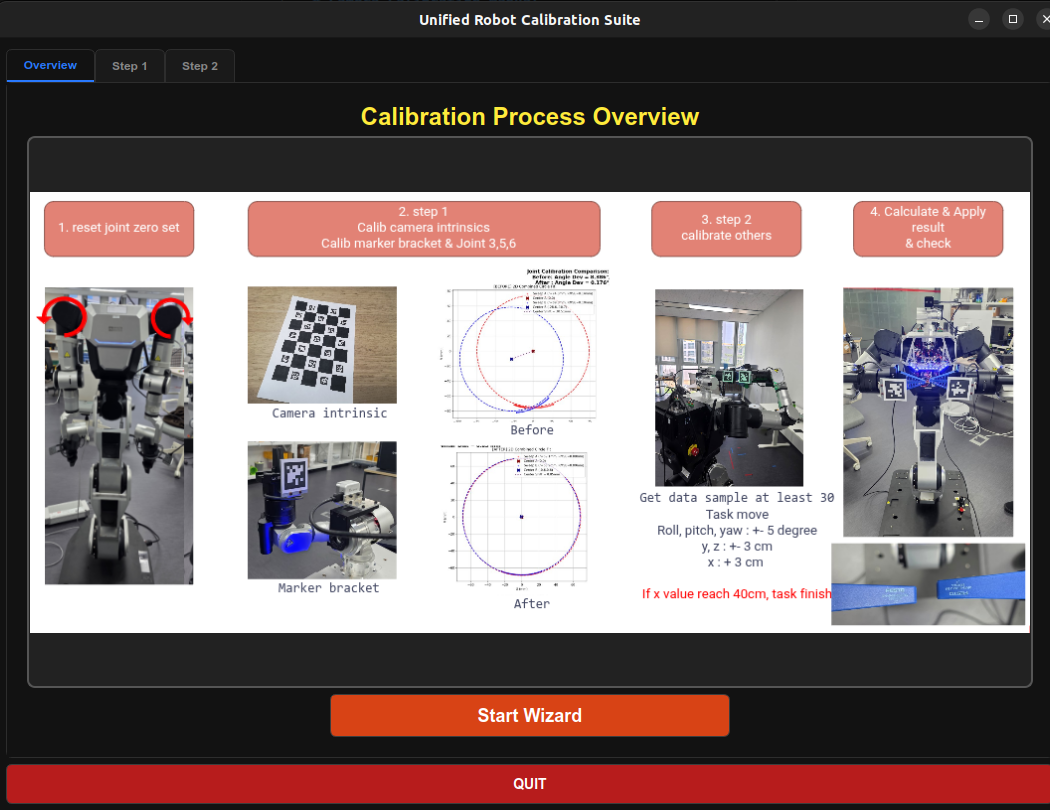
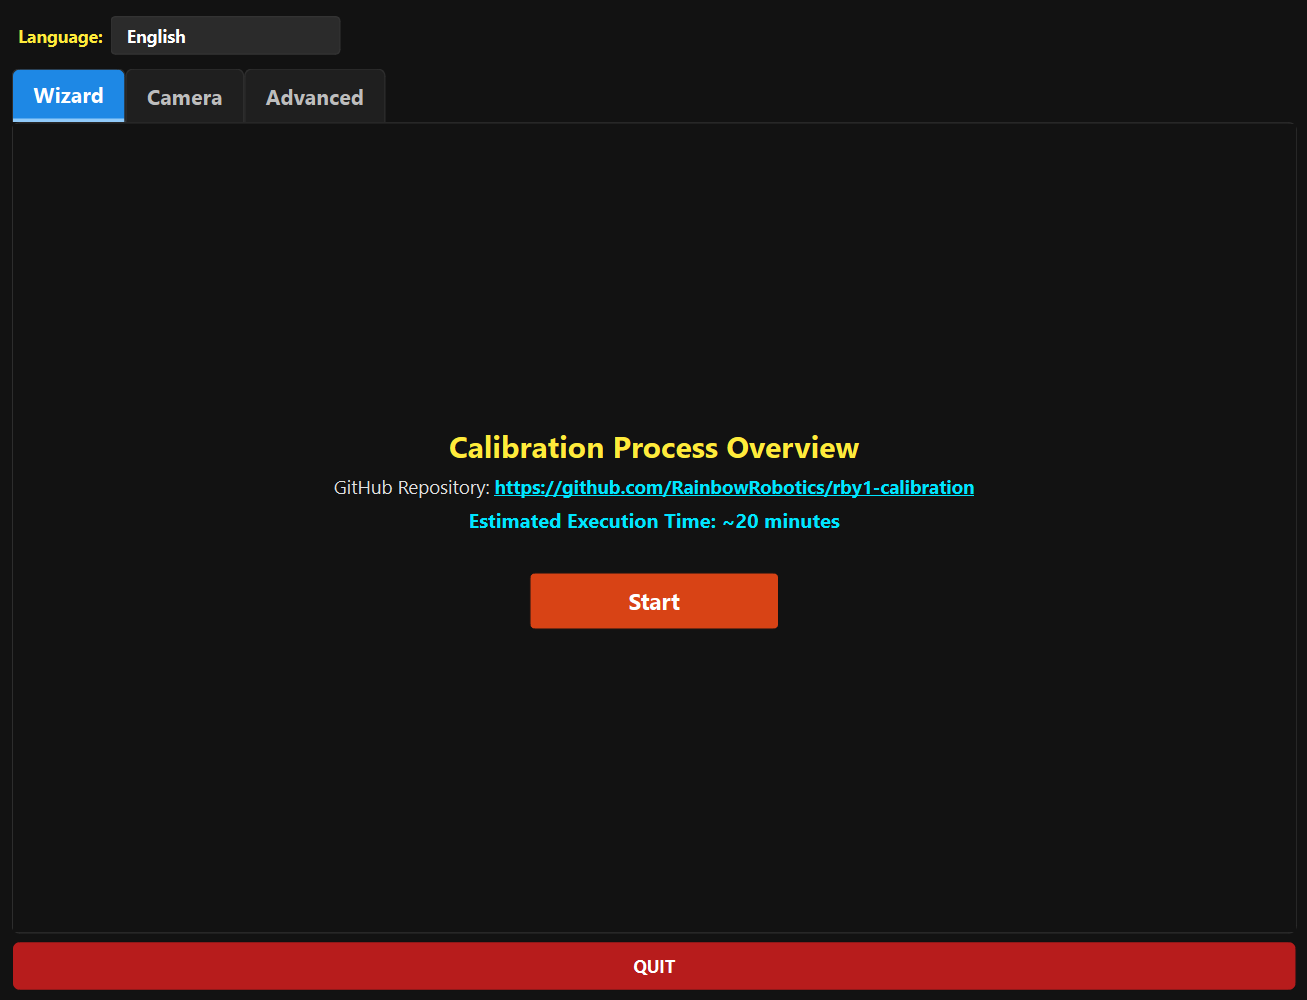
.

diff --git a/main_ui.py b/main_ui.py
@@ -2396,7 +2396,7 @@ class UnifiedCalibrationApp(QWidget):
         self.overview_link.setOpenExternalLinks(True)
         container_layout.addWidget(self.overview_link)
 
-        self.overview_duration = QLabel("Estimated Execution Time: ~40 minutes")
+        self.overview_duration = QLabel("Estimated Execution Time: ~20 minutes")
         self.overview_duration.setStyleSheet("font-size: 16px; font-weight: bold; color: #00e5ff;")
         self.overview_duration.setAlignment(Qt.AlignCenter)
         container_layout.addWidget(self.overview_duration)
